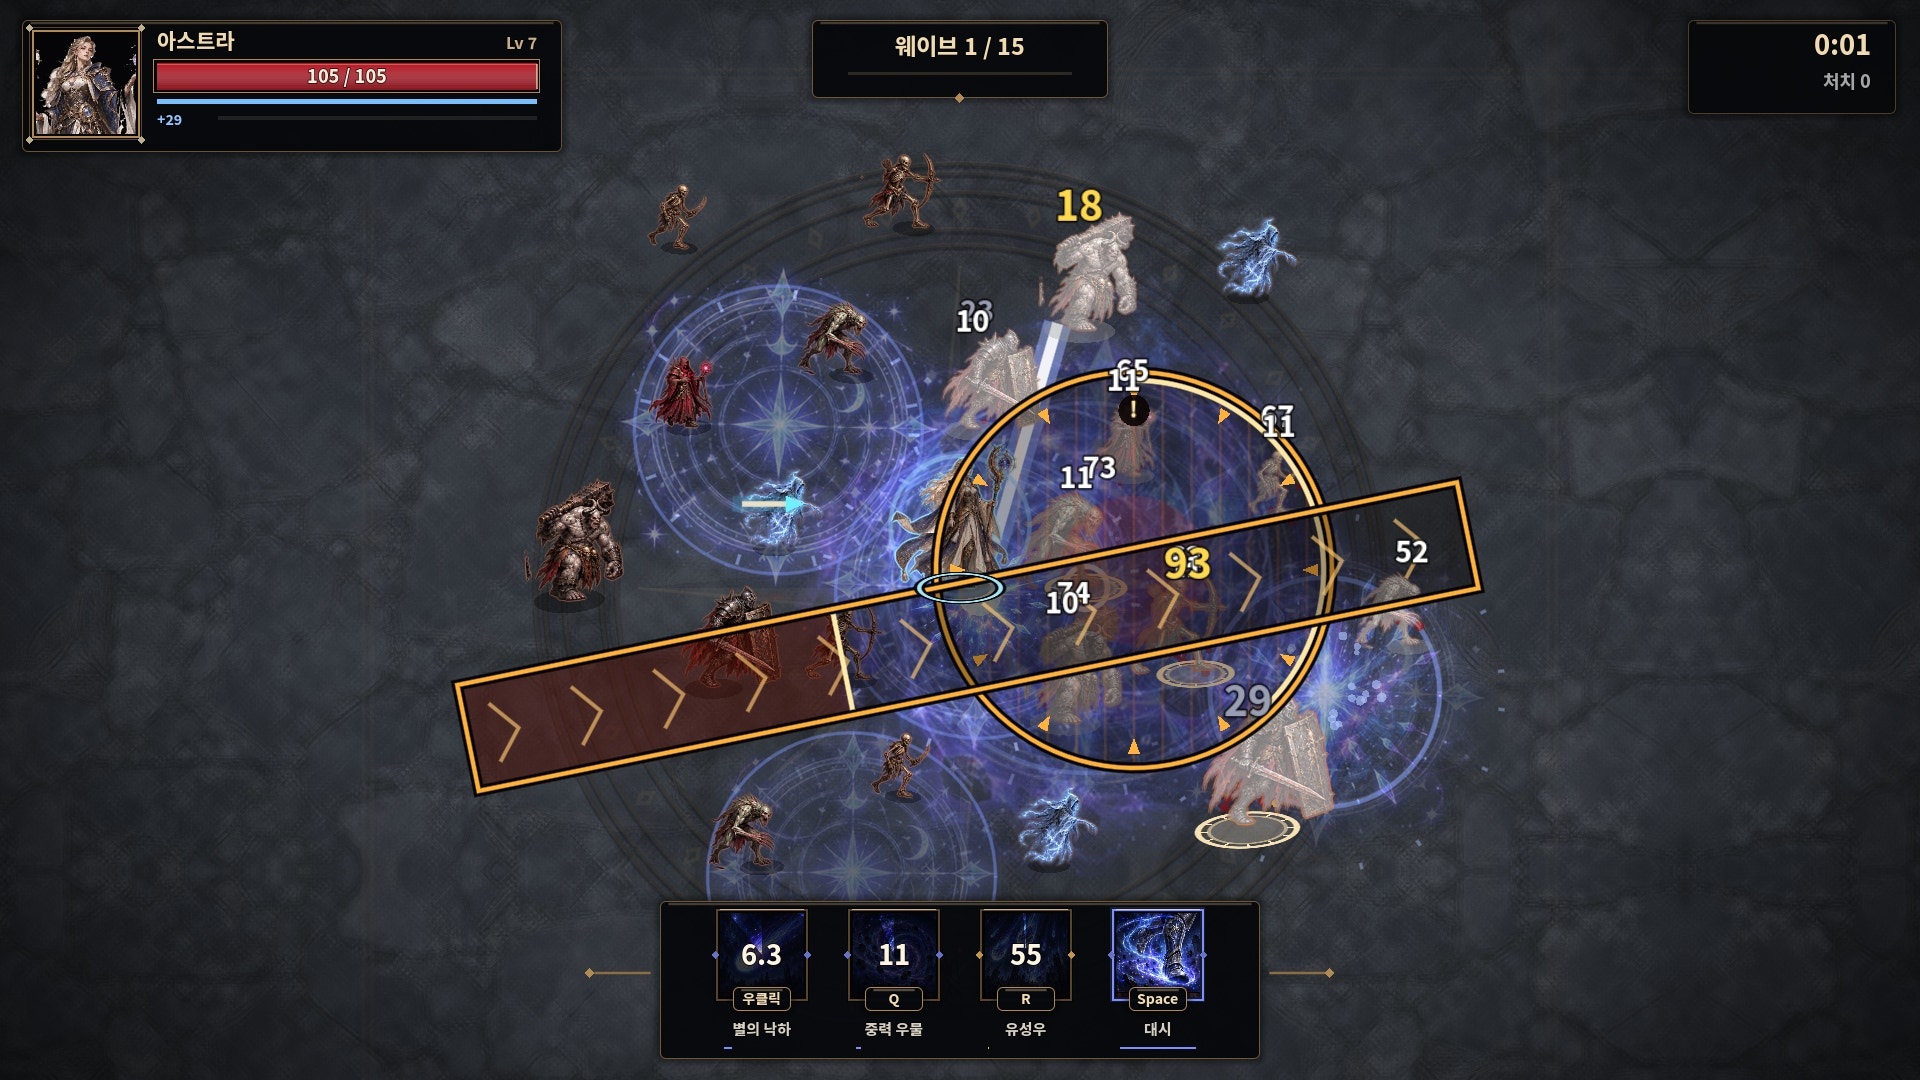
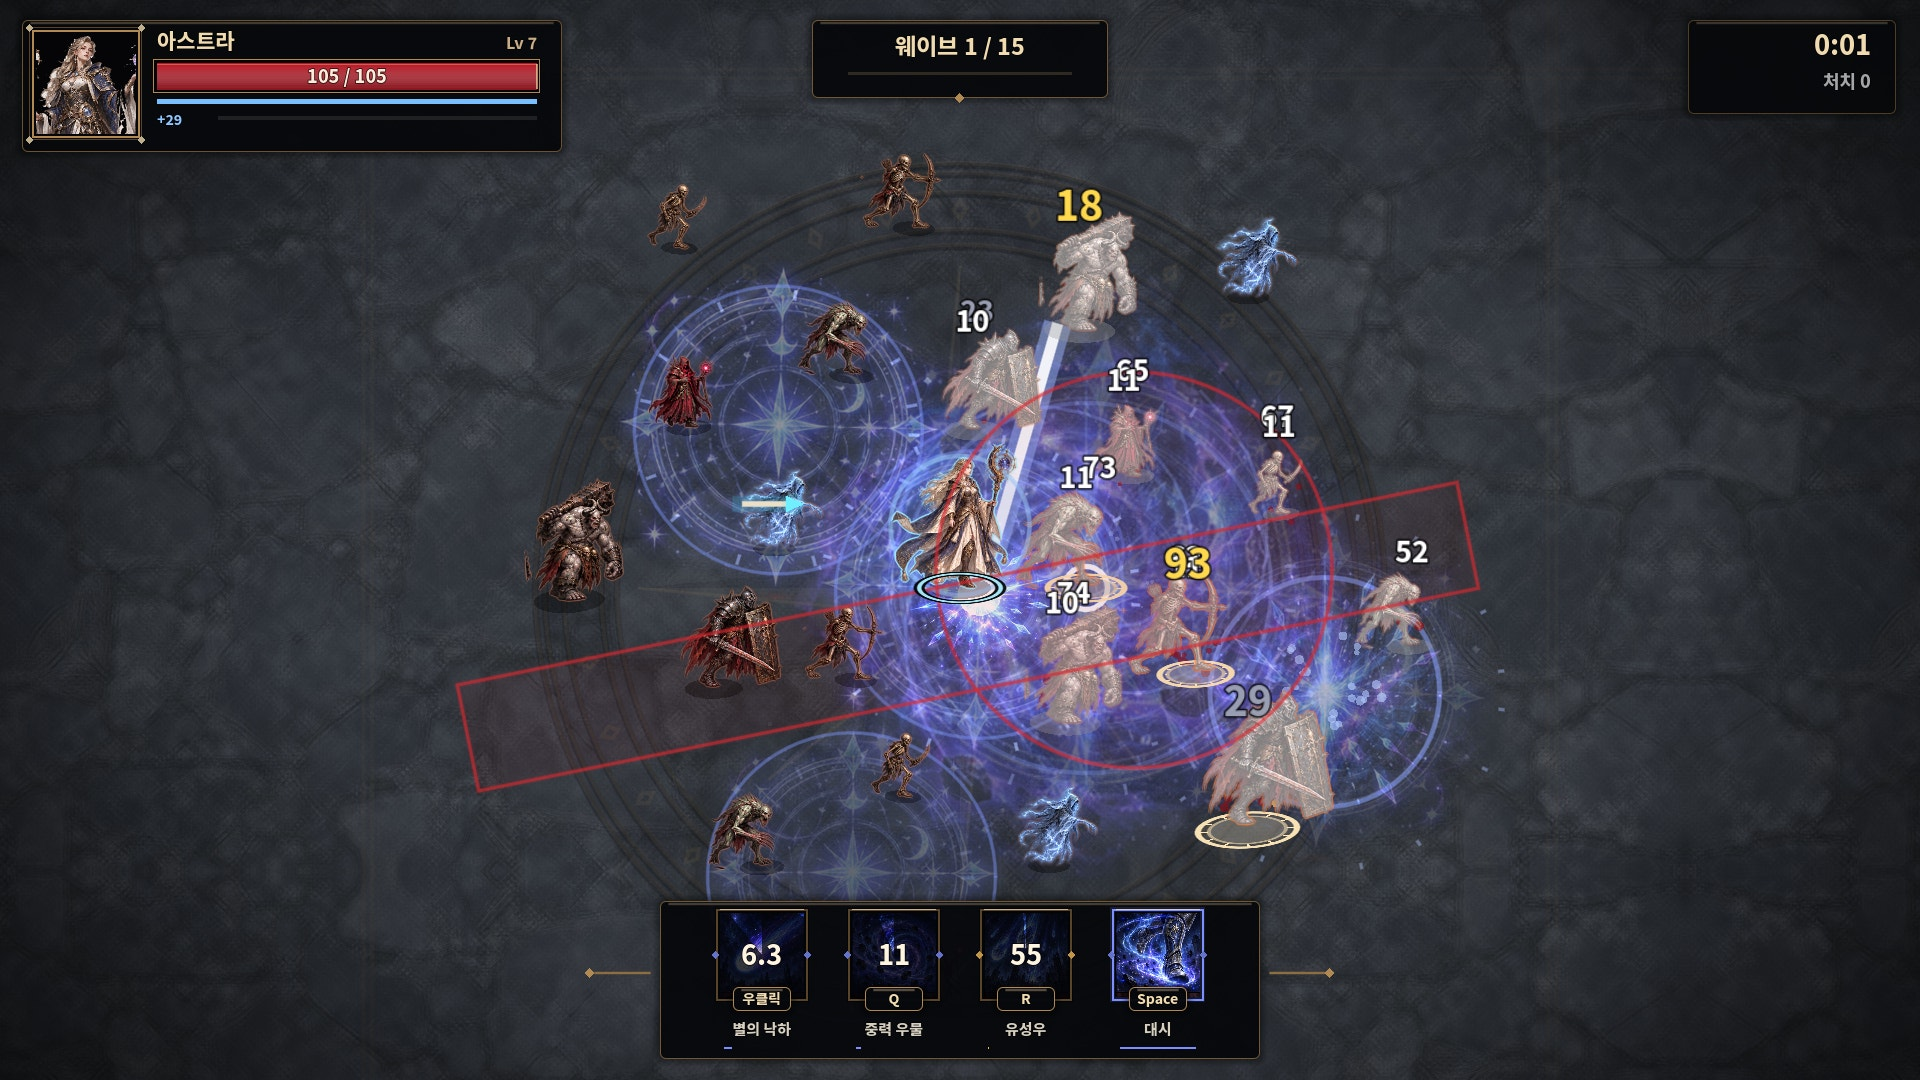
Refine danger telegraphs with subtle crimson boundaries

Changed region(s): [[0.2188, 0.3361, 0.7812, 0.7333]]

diff --git a/docs/COMBAT_READABILITY.md b/docs/COMBAT_READABILITY.md
@@ -22,7 +22,7 @@
 | 플레이어 | 옅은 청백색 윤곽선과 어두운 바탕의 발밑 링, 약한 밝기 보정. 피격·은신·무적 투명도 유지. 발밑 링은 별도로 그려 은신 중에도 자기 위치를 확인 |
 | 몬스터 | 따뜻한 색의 얇은 윤곽선. 정예·보스는 조금 더 강하게 표시. 기존 피격 반짝임과 망령 투명도 유지 |
 | 스킬 | 그림 효과의 전체 발광과 긴 문양·중력장·연막의 강도를 낮춤. 캐릭터를 장식 효과 위에 그림 |
-| 적 공격 예고 | 어두운 경계와 호박색 선, 원형 내부 무늬·경고 기호·안쪽 삼각형, 직선 방향 화살표·발동 진행 표시. 아군 마법진과 형태로도 구분 |
+| 적 공격 예고 | 얇은 붉은 경계선과 은은한 내부 음영. 마지막 22% 구간에만 경계가 부드럽게 밝아짐. 굵은 검은 테두리·노란색·느낌표·빗금·반복 화살표를 제거. 아군 예고는 기존 색 유지 |
 | 적 투사체 | 최근 수정된 큰 청록색 해골 화살을 포함한 적 투사체가 아군 효과 위에서 보이도록 표시 순서 조정 |
 
 [전사와 군중 속 플레이어](previews/readability/knight-crowd.jpg) · [궁수 스킬과 위험 예고](previews/readability/ranger-overlap.jpg) · [도적 스킬과 위험 예고](previews/readability/rogue-overlap.jpg)
